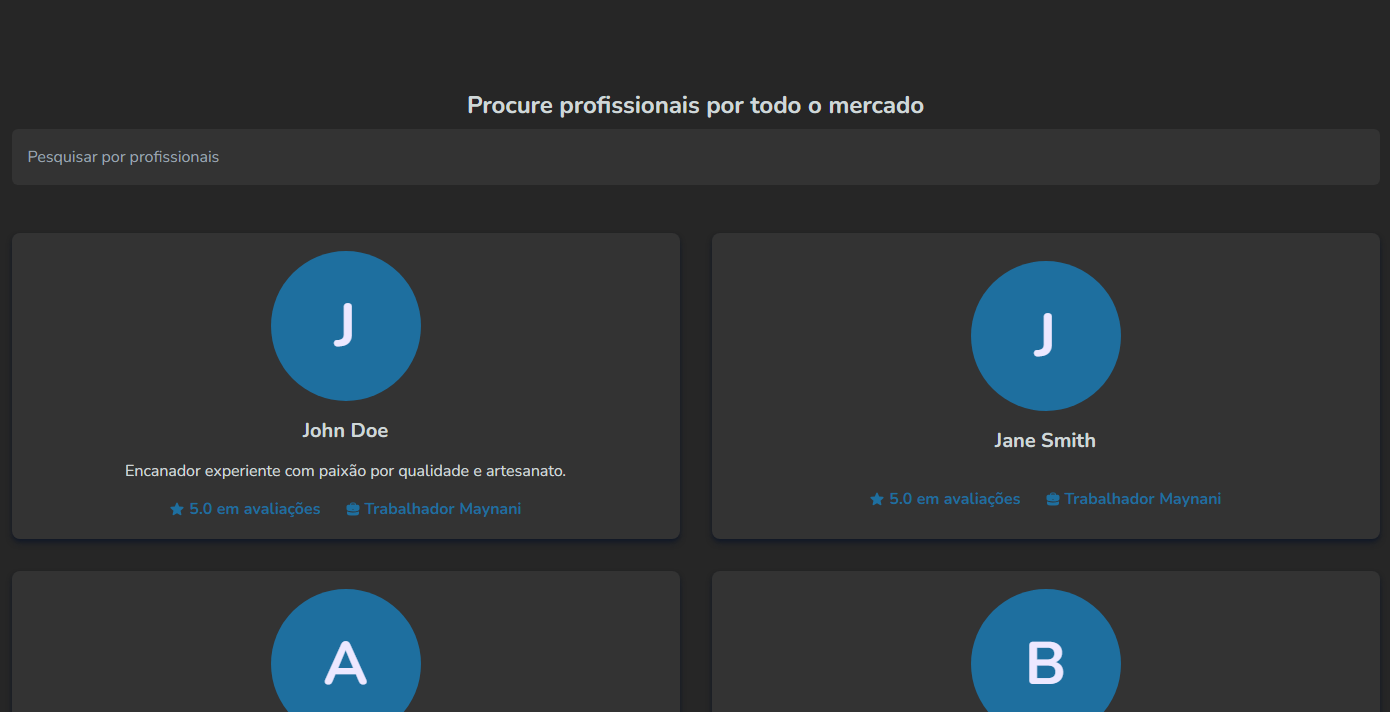
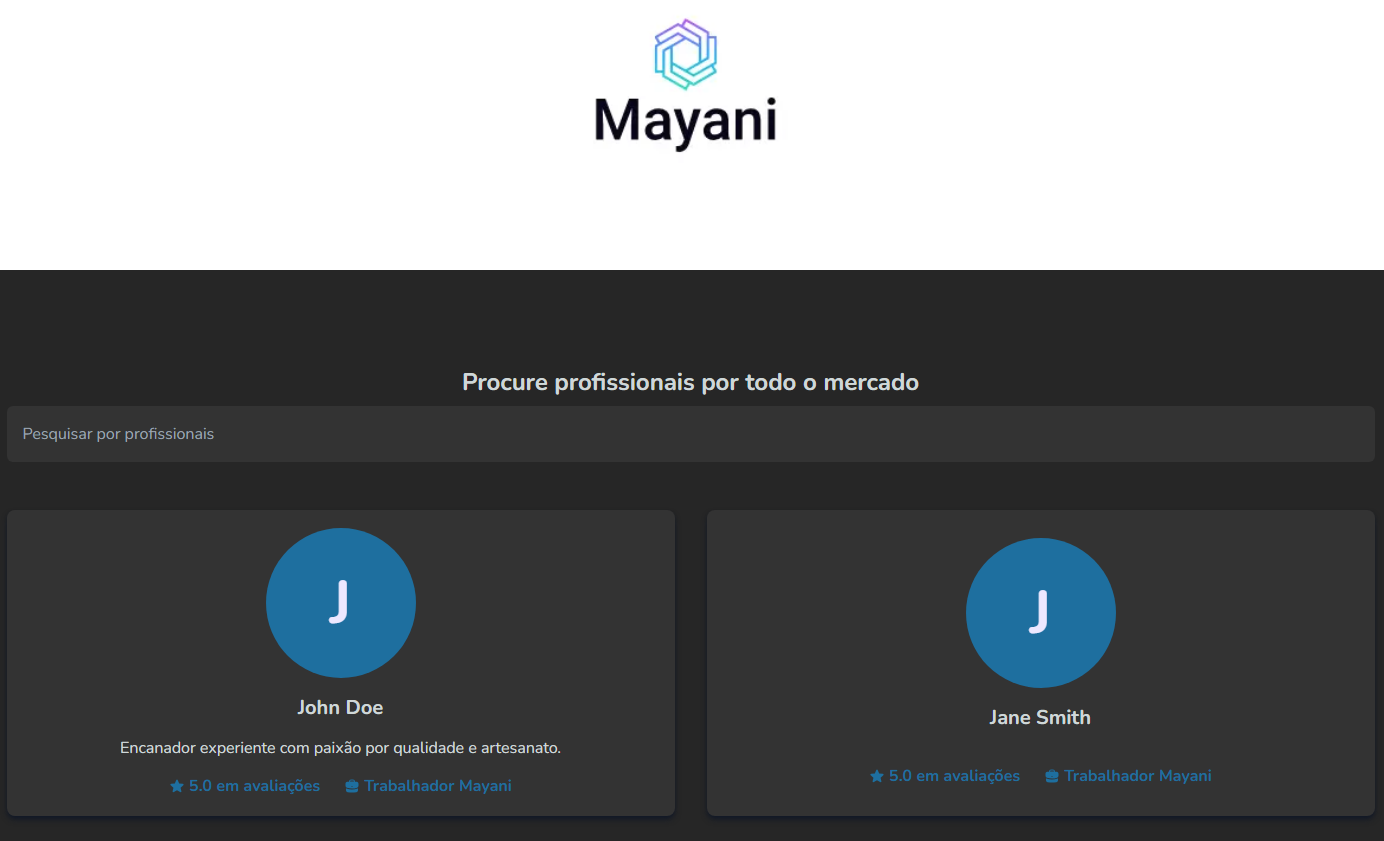
:maple_leaf: JobConnect -> Mayani

diff --git a/src/app/(main)/pricing/page.tsx b/src/app/(main)/pricing/page.tsx
@@ -8,14 +8,14 @@ export default function Pricing() {
 			</h1>
 
 			<span className="font-extralight hover:scale-105 transition-all">
-				O Maynani oferece diferentes planos de acordo com suas
+				O Mayani oferece diferentes planos de acordo com suas
 				necessidades
 			</span>
 
 			<section className="grid grid-cols-2 items-center gap-8 mt-8">
 				<PricingCard
 					title="Verificado"
-					description="O plano base para quem deseja publicar seus serviços na plataforma. Ganhe acesso à publicação de anúncios e à comunidade Maynani."
+					description="O plano base para quem deseja publicar seus serviços na plataforma. Ganhe acesso à publicação de anúncios e à comunidade Mayani."
 					price={50}
 					image="/verified.svg"
 				/>

diff --git a/src/components/navbar/index.tsx b/src/components/navbar/index.tsx
@@ -5,7 +5,7 @@ import { NotificationButton } from './NotificationButton';
 export function Navbar() {
 	return (
 		<nav className="w-full z-10 fixed top-0 right-0 flex items-center justify-between font-bold text-xl bg-gray500 text-white px-12 py-6 border-b-4 border-gray400">
-			<h1 className="text-3xl hover:scale-105 transition-all">Maynani</h1>
+			<h1 className="text-3xl hover:scale-105 transition-all">Mayani</h1>
 
 			<ul className="w-[60%] text-xl flex items-center justify-around">
 				<li className="hover:text-blue700 hover:scale-105 transition-all">

diff --git a/src/components/landingPage/banner/index.tsx b/src/components/landingPage/banner/index.tsx
@@ -5,7 +5,7 @@ export function LandingPageBanner() {
 	return (
 		<section className="flex items-center justify-between">
 			<div>
-				<h1 className="text-7xl font-bold">Bem-vindo ao Maynani</h1>
+				<h1 className="text-7xl font-bold">Bem-vindo ao Mayani</h1>
 
 				<span className="block mt-6 w-3/4">
 					Conectando você aos profissionais qualificados mais próximos

diff --git a/src/components/landingPage/advantages/index.tsx b/src/components/landingPage/advantages/index.tsx
@@ -4,7 +4,7 @@ export function Advantages() {
 	return (
 		<section className="mt-36 border-2 border-gray400 p-8 flex flex-col items-center justify-center rounded-xl gap-4">
 			<h1 className="text-4xl font-bold hover:scale-105 transition-all">
-				Por que escolher o Maynani?
+				Por que escolher o Mayani?
 			</h1>
 
 			<span className="block font-light">

diff --git a/src/components/home/WorkerCard/index.tsx b/src/components/home/WorkerCard/index.tsx
@@ -62,7 +62,7 @@ export function WorkerCard({
 
 				<div className="flex gap-1 items-center hover:text-blue-500">
 					<BriefcaseIcon width={16} height={16} />
-					Trabalhador Maynani
+					Trabalhador Mayani
 				</div>
 			</footer>
 		</div>

diff --git a/src/components/landingPage/register/index.tsx b/src/components/landingPage/register/index.tsx
@@ -10,7 +10,7 @@ export function Register() {
 				</h1>
 
 				<span className="block font-light">
-					Registre-se no Maynani hoje
+					Registre-se no Mayani hoje
 				</span>
 
 				<Link

diff --git a/src/components/banner/index.tsx b/src/components/banner/index.tsx
@@ -8,7 +8,7 @@ export function MainBanner() {
 				width={400}
 				height={400}
 				src={'/logo.png'}
-				alt="Maynani Logo"
+				alt="Mayani Logo"
 			/>
 		</header>
 	);

diff --git a/src/app/layout.tsx b/src/app/layout.tsx
@@ -11,7 +11,7 @@ const nunito = Nunito({
 });
 
 export const metadata: Metadata = {
-	title: 'Job Connect',
+	title: 'Mayani',
 	icons: [
 		{
 			url: '/favicon.png',
